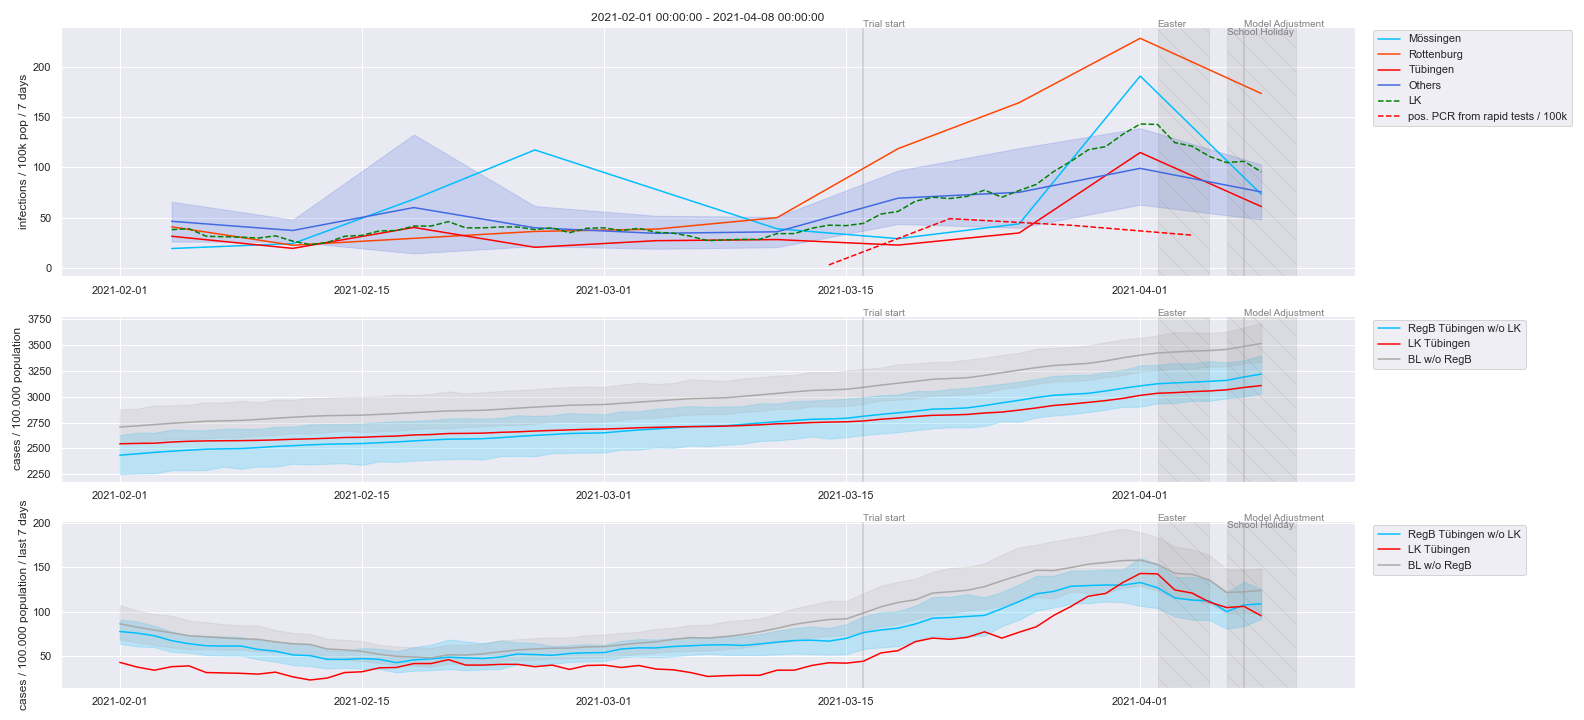
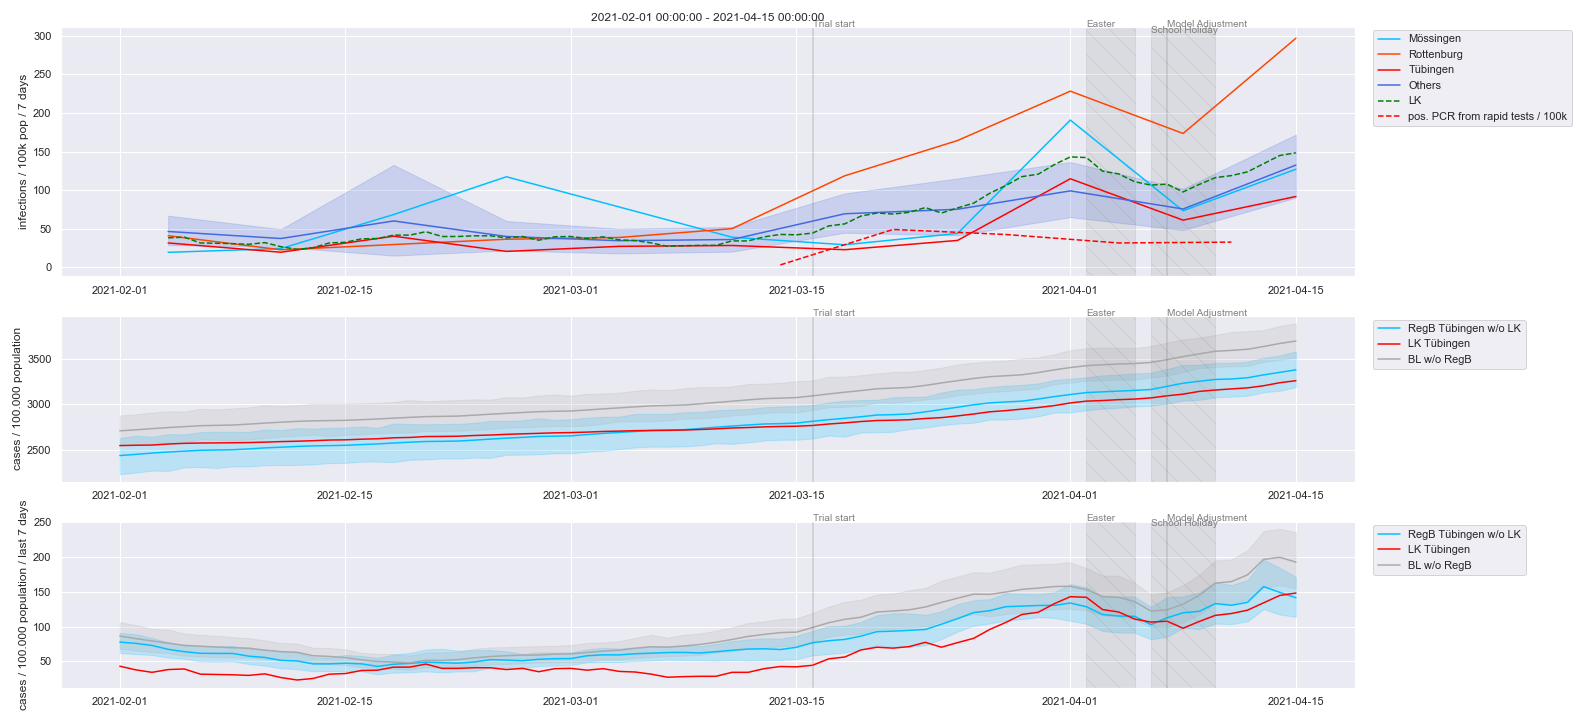
2021-04-16-17-50-39

diff --git a/README.md b/README.md
@@ -7,7 +7,7 @@ data: [Landratsamt Tübingen](https://www.kreis-tuebingen.de/17094149.html)
 
 *Disclaimer*: This data is automatically extracted from the PDFs uploaded by the Landratsamt and published as-is. Should you encounter errors please open an issue in the repository.
 
-data range: 2020-10-08 - 2021-04-08
+data range: 2020-10-08 - 2021-04-15
 
 Fields:
 - region: Always 'LK Tübingen'
